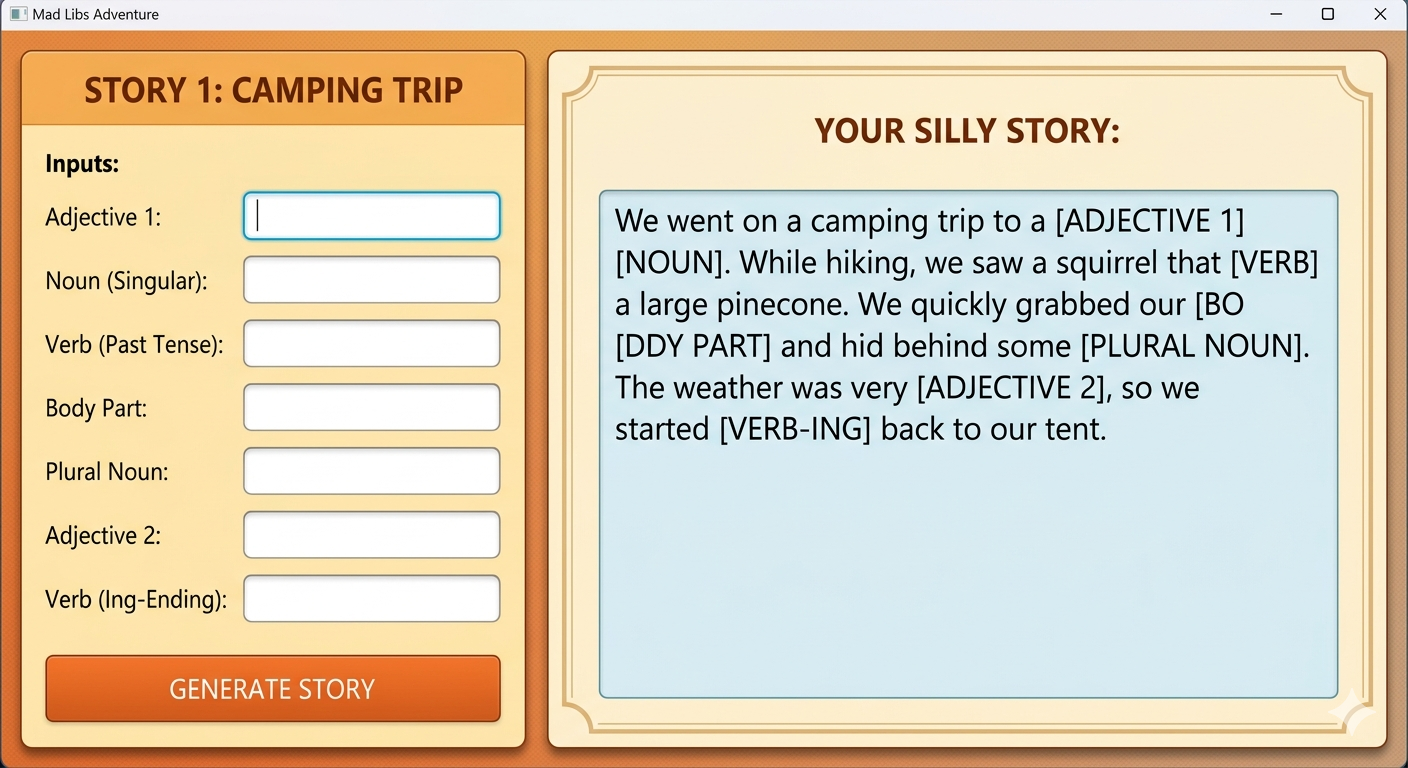
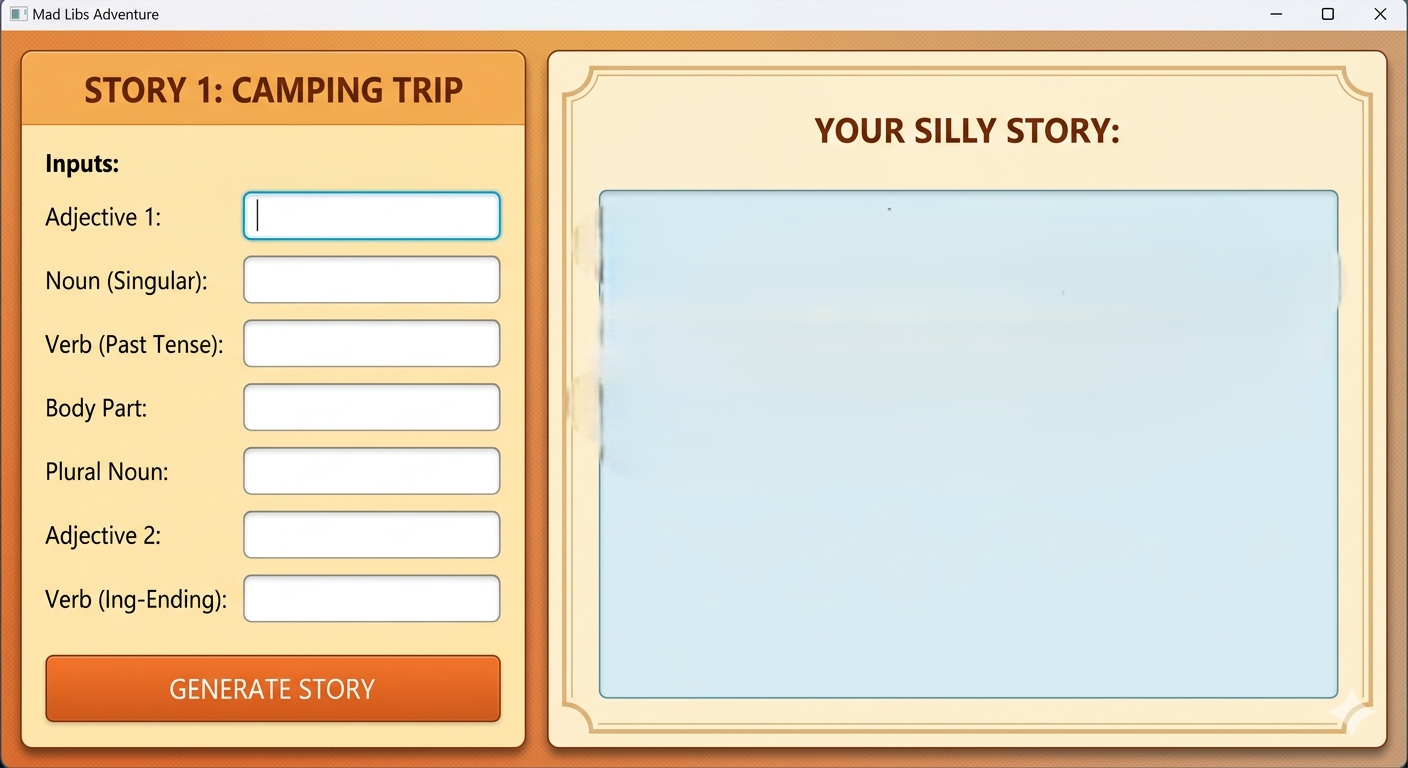
init gui - javafx

Changed region(s): [[0.4062, 0.25, 0.9688, 0.5938]]

diff --git a/src/v2/Main.java b/src/v2/Main.java
@@ -1,13 +1,242 @@
 package src.v2;
 
 import javafx.application.Application;
+import javafx.geometry.Insets;
+import javafx.geometry.Pos;
+import javafx.scene.Scene;
+import javafx.scene.control.*;
+import javafx.scene.layout.*;
+import javafx.scene.text.Text;
+import javafx.scene.text.TextFlow;
 import javafx.stage.Stage;
+import java.util.ArrayList;
 
 public class Main extends Application {
+	
+	public static final String APP_VERSION = "v2.0";
+	
+	private MadLibs madLibs = new MadLibs();
+	private ArrayList<String> placeholders;
+	private ArrayList<TextField> inputFields;
+	private TextFlow storyDisplay;
 
 	@Override
 	public void start(Stage primaryStage) {
+		// Get placeholders from the template
+		String template = MadLibs.madLibFileReader.getMadLibTemplate();
+		placeholders = MadLibs.getPlaceholders(template);
 		
+		// Create the main layout
+		BorderPane root = new BorderPane();
+		
+		// Create left panel with form inputs
+		VBox leftPanel = createInputForm();
+		ScrollPane scrollPane = new ScrollPane(leftPanel);
+		scrollPane.setFitToWidth(true);
+		scrollPane.setFitToHeight(true);
+		scrollPane.setStyle("-fx-font-size: 12px; -fx-padding: 0; -fx-control-inner-background: #ffe4b5;");
+		scrollPane.setVbarPolicy(ScrollPane.ScrollBarPolicy.AS_NEEDED);
+		scrollPane.setHbarPolicy(ScrollPane.ScrollBarPolicy.NEVER);
+		
+		// Create right panel for story display
+		VBox storyPanel = createStoryPanel();
+		
+		// Create center split pane
+		SplitPane splitPane = new SplitPane();
+		splitPane.setDividerPositions(0.4);
+		splitPane.getItems().addAll(scrollPane, storyPanel);
+		
+		root.setCenter(splitPane);
+		
+		// Create scene and show stage
+		Scene scene = new Scene(root, 1000, 600);
+		primaryStage.setTitle("MadLibs " + APP_VERSION);
+		primaryStage.setScene(scene);
+		primaryStage.show();
+	}
+	
+	private VBox createStoryPanel() {
+		VBox storyPanel = new VBox();
+		storyPanel.setPadding(new Insets(20));
+		storyPanel.setSpacing(15);
+		storyPanel.setStyle("-fx-background-color: #fffacd;");
+		
+		// Add title
+		Label titleLabel = new Label("YOUR SILLY STORY:");
+		titleLabel.setStyle("-fx-font-size: 20px; -fx-font-weight: bold; -fx-text-fill: #8b4513;");
+		storyPanel.getChildren().add(titleLabel);
+		
+		// Create framed story display
+		VBox frameBox = new VBox();
+		frameBox.setStyle(
+			"-fx-border-color: #d4af37; " +
+			"-fx-border-width: 8; " +
+			"-fx-background-color: #f5f5dc; " +
+			"-fx-padding: 20;"
+		);
+		frameBox.setAlignment(Pos.CENTER);
+		
+		storyDisplay = new TextFlow();
+		storyDisplay.setStyle(
+			"-fx-font-size: 18px; " +
+			"-fx-text-fill: #333333; " +
+			"-fx-padding: 10;"
+		);
+		storyDisplay.setLineSpacing(5);
+		storyDisplay.setTextAlignment(javafx.scene.text.TextAlignment.CENTER);
+		
+		ScrollPane scrollPane = new ScrollPane(storyDisplay);
+		scrollPane.setStyle("-fx-control-inner-background: #f5f5dc;");
+		scrollPane.setFitToWidth(true);
+		
+		frameBox.getChildren().add(scrollPane);
+		VBox.setVgrow(scrollPane, javafx.scene.layout.Priority.ALWAYS);
+		VBox.setVgrow(frameBox, javafx.scene.layout.Priority.ALWAYS);
+		
+		storyPanel.getChildren().add(frameBox);
+		
+		return storyPanel;
+	}
+	
+	private VBox createInputForm() {
+		VBox formPanel = new VBox();
+		formPanel.setPadding(new Insets(20));
+		formPanel.setSpacing(15);
+		formPanel.setStyle("-fx-background-color: #ffe4b5;");
+		
+		// Add title
+		Label titleLabel = new Label("STORY " + MadLibs.madLibFileReader.getCurrentStoryIndex() + ": " + MadLibs.madLibFileReader.getCurrentStoryTitle());
+		titleLabel.setStyle("-fx-font-size: 18px; -fx-font-weight: bold; -fx-text-fill: #8b4513;");
+		formPanel.getChildren().add(titleLabel);
+		
+		Label inputsLabel = new Label("Inputs:");
+		inputsLabel.setStyle("-fx-font-size: 14px; -fx-font-weight: bold;");
+		formPanel.getChildren().add(inputsLabel);
+		
+		// Create input fields
+		inputFields = new ArrayList<>();
+		
+		for (String placeholder : placeholders) {
+			HBox fieldContainer = new HBox();
+			fieldContainer.setSpacing(10);
+			fieldContainer.setAlignment(javafx.geometry.Pos.CENTER_LEFT);
+			
+			Label label = new Label(formatPlaceholder(placeholder) + ":");
+			label.setPrefWidth(150);
+			label.setStyle("-fx-font-size: 12px;");
+			
+			TextField textField = new TextField();
+			textField.setPrefWidth(250);
+			textField.setStyle("-fx-font-size: 12px;");
+			
+			fieldContainer.getChildren().addAll(label, textField);
+			formPanel.getChildren().add(fieldContainer);
+			
+			inputFields.add(textField);
+		}
+		
+		// Add spacing and generate button
+		Separator separator = new Separator();
+		formPanel.getChildren().add(separator);
+		
+		Button generateButton = new Button("GENERATE STORY");
+		generateButton.setPrefWidth(200);
+		generateButton.setStyle(
+			"-fx-font-size: 14px; " +
+			"-fx-padding: 10px; " +
+			"-fx-background-color: #ff8c00; " +
+			"-fx-text-fill: white; " +
+			"-fx-font-weight: bold; " +
+			"-fx-border-radius: 5;"
+		);
+		
+		generateButton.setOnAction(e -> generateStory());
+		
+		VBox buttonContainer = new VBox(generateButton);
+		buttonContainer.setAlignment(javafx.geometry.Pos.CENTER);
+		buttonContainer.setPadding(new Insets(10, 0, 0, 0));
+		formPanel.getChildren().add(buttonContainer);
+		
+		return formPanel;
+	}
+	
+	private String formatPlaceholder(String placeholder) {
+		// Convert placeholder like "ADJECTIVE" to "Adjective"
+		String[] words = placeholder.split(" ");
+		StringBuilder result = new StringBuilder();
+		
+		for (String word : words) {
+			result.append(word.substring(0, 1).toUpperCase())
+				  .append(word.substring(1).toLowerCase())
+				  .append(" ");
+		}
+		
+		return result.toString().trim();
+	}
+	
+	private void generateStory() {
+		// Collect all inputs from text fields
+		ArrayList<String> replacements = new ArrayList<>();
+		
+		for (TextField field : inputFields) {
+			String input = field.getText().trim();
+			if (input.isEmpty()) {
+				showAlert("Please fill in all fields!");
+				return;
+			}
+			replacements.add(input);
+		}
+		
+		// Generate the story
+		String template = madLibs.madLibFileReader.getMadLibTemplate();
+		buildStoryTextFlow(template, replacements);
+	}
+	
+	private void buildStoryTextFlow(String template, ArrayList<String> replacements) {
+		storyDisplay.getChildren().clear();
+		
+		String result = template;
+		int replacementIndex = 0;
+		
+		for (int i = 0; i < replacements.size(); i++) {
+			String placeholder = placeholders.get(i);
+			String replacement = replacements.get(i);
+			String placeholderText = "[" + placeholder + "]";
+			
+			// Check if the placeholder is at the start of a sentence
+			int index = result.indexOf(placeholderText);
+			if (index > 0 && result.charAt(index - 1) == ' ' && 
+			    index >= 2 && result.charAt(index - 2) == '.') {
+				replacement = replacement.substring(0, 1).toUpperCase() + replacement.substring(1);
+			}
+			
+			result = result.replace(placeholderText, "|||" + replacement + "|||");
+		}
+		
+		// Split by the delimiter and build TextFlow
+		String[] parts = result.split("\\|\\|\\|");
+		
+		for (int i = 0; i < parts.length; i++) {
+			if (parts[i].isEmpty()) continue;
+			
+			Text text = new Text(parts[i]);
+			text.setStyle("-fx-font-size: 18px;");
+			
+			// Odd indices are user-entered words (replacements)
+			if (i % 2 == 1) {
+				text.setStyle("-fx-font-size: 18px; -fx-font-weight: bold; -fx-fill: #ff6b35;");
+			}
+			
+			storyDisplay.getChildren().add(text);
+		}
+	}
+	
+	private void showAlert(String message) {
+		Alert alert = new Alert(Alert.AlertType.WARNING);
+		alert.setTitle("Input Required");
+		alert.setHeaderText(null);
+		alert.setContentText(message);
+		alert.showAndWait();
 	}
 
 	public static void main(String[] args) {

diff --git a/src/v2/MadLibFileReader.java b/src/v2/MadLibFileReader.java
@@ -4,6 +4,8 @@ import java.io.*;
 import java.nio.charset.StandardCharsets;
 import java.nio.file.Files;
 import java.nio.file.Paths;
+import java.util.ArrayList;
+import java.util.Random;
 
 // This is the MadLibFileReader class
 // It reads in a madlib text file and converts it into a Java String
@@ -15,15 +17,91 @@ public class MadLibFileReader
 	private static final String FILENAME = "madlibs.txt";
 	
 	private String template;
+	private ArrayList<String> storyTitles;
+	private ArrayList<String> stories;
+	private int currentStoryIndex;
 	
 	public MadLibFileReader()
 	{
 		template = loadTemplate(FILENAME);
+		parseStories();
+		generateTitles();
+		selectRandomStory();
 	}
 	
 	public String getMadLibTemplate()
 	{
-		return template;
+		return stories.get(currentStoryIndex);
+	}
+	
+	public String getCurrentStoryTitle()
+	{
+		return storyTitles.get(currentStoryIndex);
+	}
+	
+	public int getCurrentStoryIndex()
+	{
+		return currentStoryIndex;
+	}
+	
+	public ArrayList<String> getStoryTitles()
+	{
+		return storyTitles;
+	}
+	
+	public ArrayList<String> getStories()
+	{
+		return stories;
+	}
+	
+	public String getStoryTitle(int index)
+	{
+		if (index >= 0 && index < storyTitles.size()) {
+			return storyTitles.get(index);
+		}
+		return "";
+	}
+	
+	public String getStory(int index)
+	{
+		if (index >= 0 && index < stories.size()) {
+			return stories.get(index);
+		}
+		return "";
+	}
+	
+	private void selectRandomStory()
+	{
+		Random random = new Random();
+		currentStoryIndex = random.nextInt(stories.size());
+	}
+	
+	private void parseStories()
+	{
+		stories = new ArrayList<>();
+		// Split by double newlines to separate stories
+		String[] storyArray = template.split("\n\n+");
+		for (String story : storyArray) {
+			if (!story.trim().isEmpty()) {
+				stories.add(story.trim());
+			}
+		}
+	}
+	
+	private void generateTitles()
+	{
+		storyTitles = new ArrayList<>();
+		
+		// Generate titles based on story content
+		storyTitles.add("Programming Basics");
+		storyTitles.add("The Hackathon");
+		storyTitles.add("Space Mission");
+		storyTitles.add("Academy Adventures");
+		storyTitles.add("Museum Mystery");
+		storyTitles.add("Underwater Dining");
+		storyTitles.add("The Grand Parade");
+		storyTitles.add("Secret Recipe");
+		storyTitles.add("Game Night");
 	}
 	
 	private String loadTemplate(String filename)
